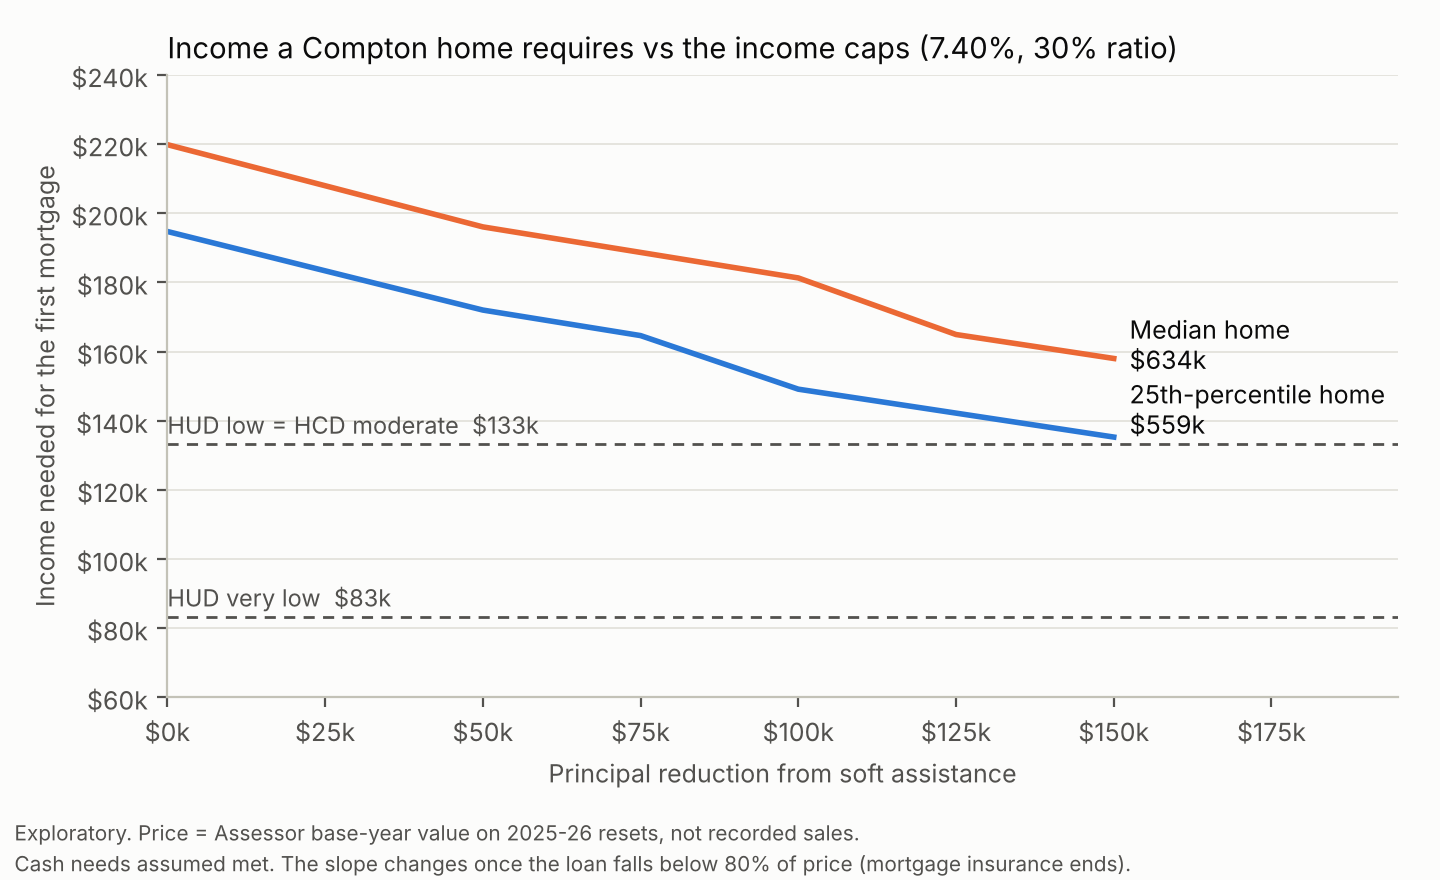
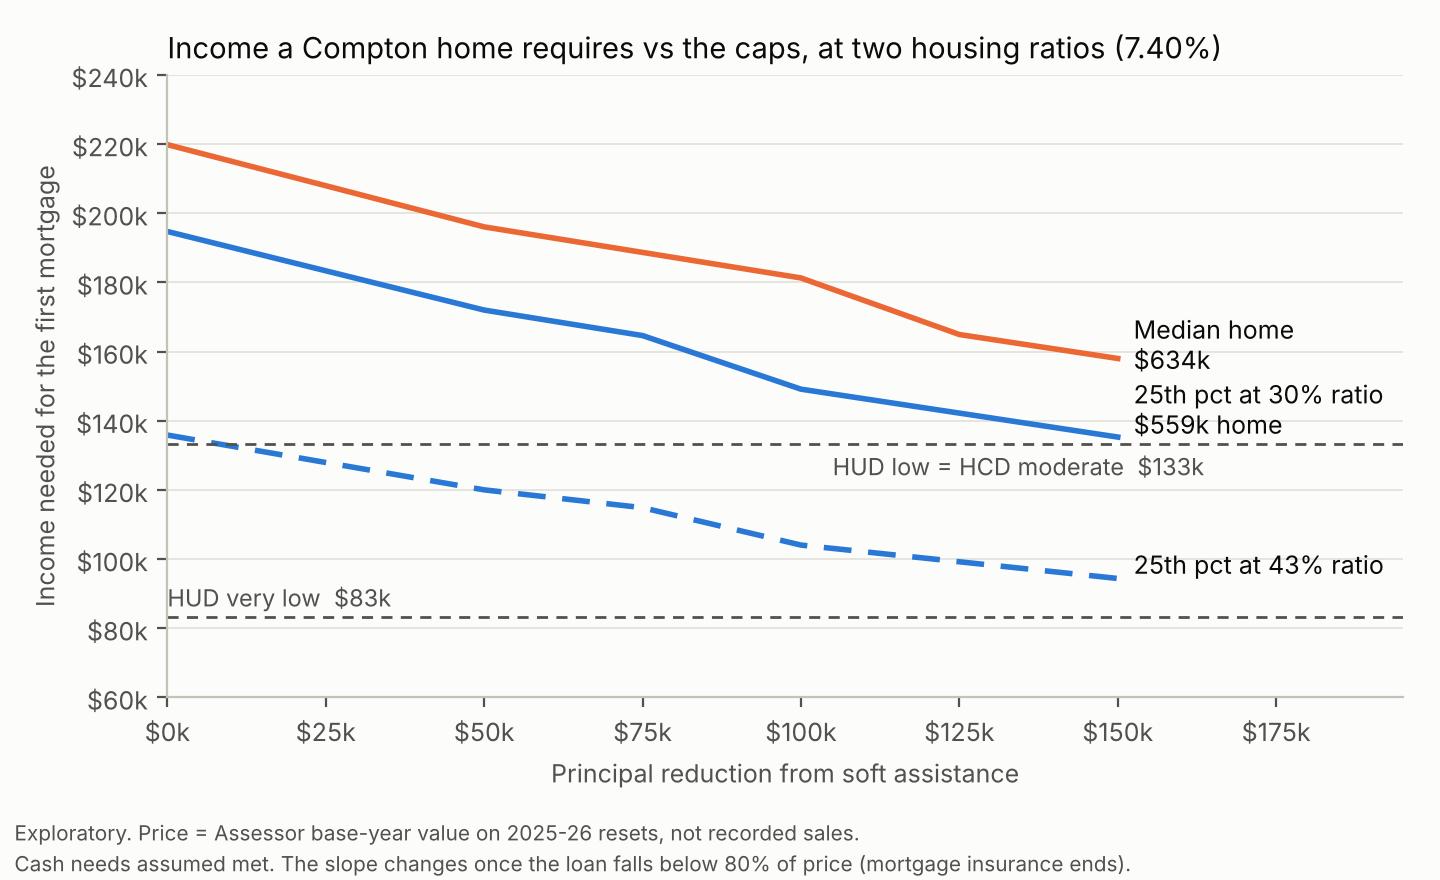
Show 43% ratio in figure; correct FHA/VA share wording

diff --git a/analysis/make_figures.py b/analysis/make_figures.py
@@ -45,22 +45,25 @@ def main():
     # Figure 1: required income vs principal reduction, with the caps
     fig, ax = plt.subplots(figsize=(7.2, 4.4), facecolor=SURFACE)
     style(ax)
-    for price, color, name, dy in ((bench["p25"], BLUE, "25th-percentile home", 8_000),
+    for price, color, name, dy in ((bench["p25"], BLUE, "25th pct at 30% ratio", 8_000),
                                    (bench["p50"], ORANGE, "Median home", 4_000)):
         ys = [cs.required_income(price, p, r) for r in Rs]
         ax.plot(Rs, ys, color=color, linewidth=2)
-        ax.text(Rs[-1] + 2500, ys[-1] + dy, f"{name}\n${price / 1000:,.0f}k", color=INK,
+        ax.text(Rs[-1] + 2500, ys[-1] + dy, f"{name}\n${price / 1000:,.0f}k" if name == "Median home" else f"{name}\n${price / 1000:,.0f}k home", color=INK,
                 fontsize=9, va="center")
+    ys43 = [cs.required_income(bench["p25"], replace(p, housing_dti=0.43), r) for r in Rs]
+    ax.plot(Rs, ys43, color=BLUE, linewidth=2, linestyle=(0, (5, 3)))
+    ax.text(Rs[-1] + 2500, ys43[-1] + 4_000, "25th pct at 43% ratio", color=INK, fontsize=9, va="center")
     for name, cap in (("HUD low = HCD moderate  $133k", 133_250), ("HUD very low  $83k", 83_300)):
         ax.axhline(cap, color=MUTED, linewidth=1, linestyle=(0, (4, 3)))
-        ax.text(0, cap + 3000, name, color=MUTED, fontsize=8.5)
+        ax.text(105_000 if cap > 100_000 else 0, cap - 9_000 if cap > 100_000 else cap + 3000, name, color=MUTED, fontsize=8.5)
     ax.set_xlim(0, 195_000)
     ax.set_ylim(60_000, 240_000)
     ax.xaxis.set_major_formatter(money_k)
     ax.yaxis.set_major_formatter(money_k)
     ax.set_xlabel("Principal reduction from soft assistance", color=MUTED, fontsize=9)
     ax.set_ylabel("Income needed for the first mortgage", color=MUTED, fontsize=9)
-    ax.set_title("Income a Compton home requires vs the income caps (7.40%, 30% ratio)",
+    ax.set_title("Income a Compton home requires vs the caps, at two housing ratios (7.40%)",
                  loc="left", color=INK, fontsize=10.5)
     fig.text(0.01, 0.045, "Exploratory. Price = Assessor base-year value on 2025-26 resets, not recorded sales.",
              color=MUTED, fontsize=7.5)

diff --git a/FINDINGS.md b/FINDINGS.md
@@ -7,7 +7,7 @@ Dated log of results and corrections, newest first. BSR and coverage results are
 ## 2026-10-28: HMDA check changes the headline (Compton, exploratory)
 
 - Pulled public HMDA purchase originations for LA County (2024: 43,089; 2025: 42,498) and kept owner-occupied, first-lien, single-family loans in 24 Compton tracts (2024: 289; 2025: 363). Tracts are Census 2020 tracts whose internal point lies inside the city; 21 boundary-touching tracts are excluded.
-- Real buyers: median income $150,000 (2024) and $153,500 (2025); median property value $655,000 in both years; median rate 6.50% and 6.28%. 32% (2024) and 28% (2025) of buyers had income at or below the $133,250 cap, and those buyers bought at a median value of $605,000, mostly with LTV near 95 and about half FHA or VA.
+- Real buyers: median income $150,000 (2024) and $153,500 (2025); median property value $655,000 in both years; median rate 6.50% and 6.28%. 32% (2024) and 28% (2025) of buyers had income at or below the $133,250 cap, and those buyers bought at a median value of $605,000, mostly with LTV near 95 and about 40% FHA or VA.
 - **The 30% front-end ratio drove the old headline.** The median buyer's implied front-end ratio was 0.41 (2024) and 0.39 (2025), and most buyers at or below the cap had a total DTI of 44% or more. At 43% the 25th-percentile home needs $135,854, 1.02x the cap, and the label is mixed. At 30% it is $194,725, 1.46x, unreachable in every cell. The earlier sentence "unreachable in every cell" was a statement about a 30% ratio, not about Compton.
 - The Assessor price proxy ran below HMDA property values: p25 $559,482 vs $605,000, median $633,926 vs $655,000 (about 3% to 8% low). That sits inside the 0.95 to 1.10 multiplier range and supports its upper half.
 - The engine's arithmetic reproduces real loans: required income over actual income at each buyer's own terms has median 1.36 (2024) and 1.32 (2025), against 1.36 and 1.31 predicted from their ratios. This checks consistency of the formulas, not the tax and insurance assumptions.
